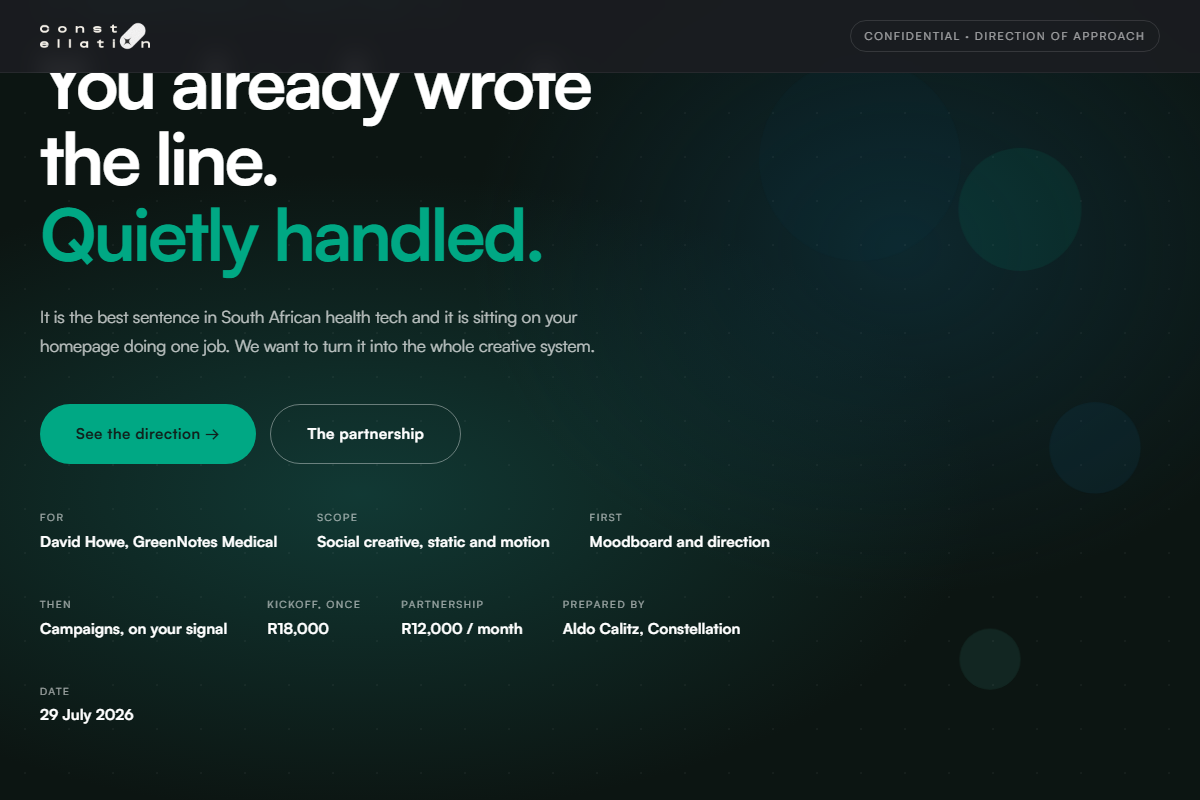
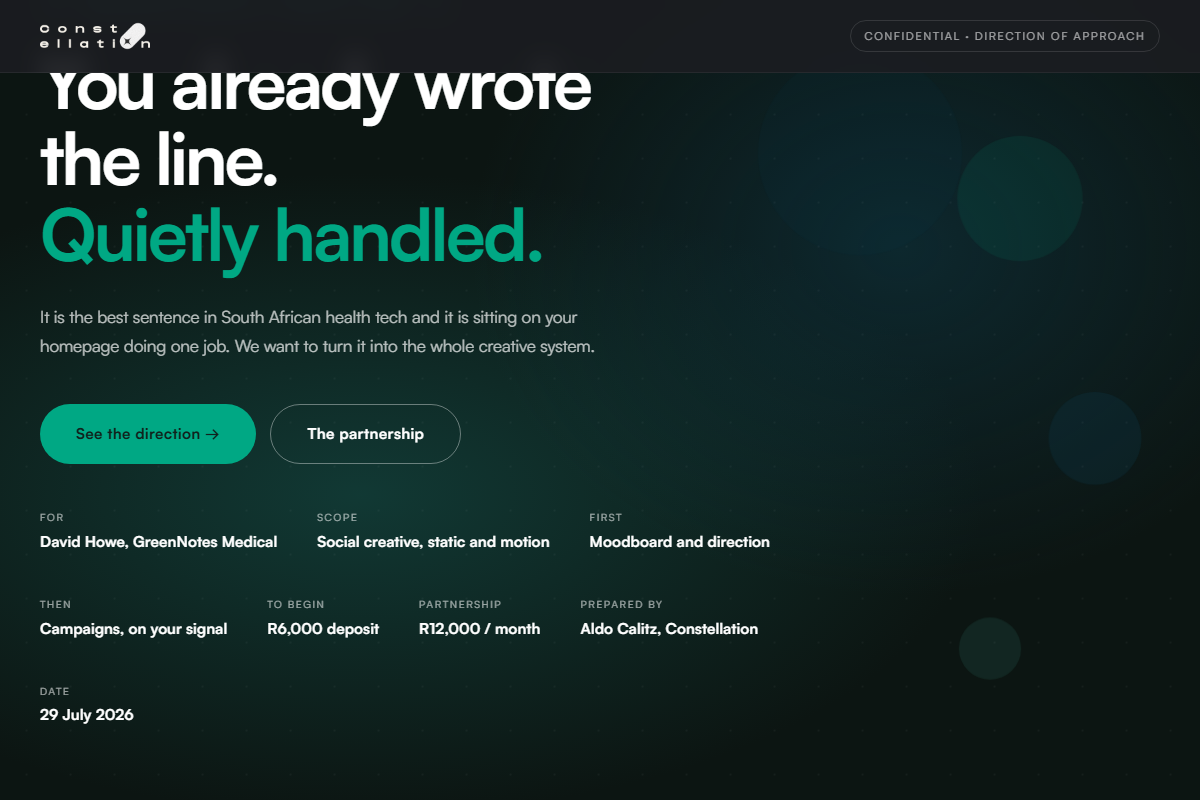
GreenNotes: kickoff becomes a R6,000 deposit, credited on the final invoice
Aldo pushed back that an R18,000 kickoff was too high. Replaced it with a
commencement deposit of half a month, R6,000, held for the engagement and
credited in full against the final invoice. Costs the client nothing extra
over the life of the engagement: half a month up front, half a month at the
end. Their last invoice is R6,000 instead of R12,000.

The direction work that the R18,000 used to buy now happens inside month one
at the ordinary R12,000, with the month's eight assets doubling as the proof
of the direction.

Rewrote both pricing cards so each says what it actually is: card one is the
deposit mechanic, card two carries the month-one direction scope. Retired
"direction sprint" language throughout in favour of "month one" so the
proposal and the signed agreement use the same words.

Added the R850/hour out-of-scope rate to the page.

Verified: 0 stale figures, 0 broken images, 0 console errors, no overflow at
1440/900/390, 0 em dashes, 0 external asset requests, UTF-8 intact.

Changed region(s): [[0.2158, 0.75, 0.6475, 0.8125]]

diff --git a/proposals/greennotes/index.html b/proposals/greennotes/index.html
@@ -477,7 +477,7 @@
         <div class="hero-meta-item"><label>Scope</label><value>Social creative, static and motion</value></div>
         <div class="hero-meta-item"><label>First</label><value>Moodboard and direction</value></div>
         <div class="hero-meta-item"><label>Then</label><value>Campaigns, on your signal</value></div>
-        <div class="hero-meta-item"><label>Kickoff, once</label><value>R18,000</value></div>
+        <div class="hero-meta-item"><label>To begin</label><value>R6,000 deposit</value></div>
         <div class="hero-meta-item"><label>Partnership</label><value>R12,000 / month</value></div>
         <div class="hero-meta-item"><label>Prepared by</label><value>Aldo Calitz, Constellation</value></div>
         <div class="hero-meta-item"><label>Date</label><value>29 July 2026</value></div>
@@ -807,7 +807,7 @@
         <div class="frame"><div class="bar b1 on"></div><div class="bar b2 on"></div><div class="bar b3"></div><span class="fno">03 · Objective</span></div>
         <div class="frame"><div class="bar b1 on"></div><div class="bar b2 on"></div><div class="bar b3 on"></div><span class="fno">04 · Signed</span></div>
       </div>
-      <p class="lead" style="margin-top:1rem; font-size:0.85rem;">Indicative frames only. The real motion gets prototyped in isolation during the direction sprint and shown to you as a moving file before it is ever used in a campaign. We do not sign off animation from a still.</p>
+      <p class="lead" style="margin-top:1rem; font-size:0.85rem;">Indicative frames only. The real motion gets prototyped in isolation in month one and shown to you as a moving file before it is ever used in a campaign. We do not sign off animation from a still.</p>
 
       <div class="sec-note">
         <h4>The rule on generative AI, in writing</h4>
@@ -828,7 +828,7 @@
           <h2>Build the system once.<br /><em>Then it is fast.</em></h2>
         </div>
         <div>
-          <p class="lead">The direction sprint is not a moodboard for its own sake. It ends with a built template system, so that from month two a new post is an hour of art direction rather than a day of design. That is what makes the retainer sustainable at this price, and it is the part most studios leave out.</p>
+          <p class="lead">Month one is not a moodboard for its own sake. It ends with a built template system, so that from month two a new post is an hour of art direction rather than a day of design. That is what makes the retainer sustainable at this price, and it is the part most studios leave out.</p>
         </div>
       </div>
 
@@ -870,7 +870,7 @@
         <div class="timeline-item">
           <div class="timeline-dot">01</div>
           <div class="timeline-body">
-            <div class="weeks">Weeks 1 and 2 · Direction sprint</div>
+            <div class="weeks">Month one · Direction</div>
             <h3>Moodboard, direction, and the proof</h3>
             <p>We send the moodboard and the direction before anything else happens, exactly as you asked. Alongside it: the single brand green resolved from your three, a type and layout system, the caption voice, and six finished assets so you are judging real work rather than a mood.</p>
             <p>The motion signature is prototyped in isolation and sent to you as a moving file. Nothing goes to campaign until you have signed off this stage.</p>
@@ -918,19 +918,18 @@
         <div class="pricing-card">
           <div class="pricing-card-head">
             <div class="pricing-tier-label">Step one</div>
-            <h4>Kickoff, the direction sprint</h4>
-            <div class="price-amount">R18,000</div>
-            <div class="price-total">Once, before anything starts. About two weeks.</div>
+            <h4>To begin</h4>
+            <div class="price-amount">R6,000</div>
+            <div class="price-total">Half a month, up front. Credited back on your final invoice.</div>
           </div>
           <div class="pricing-card-body">
             <ul class="feature-list">
-              <li>Moodboard and written direction</li>
-              <li>Your three greens resolved into one, with contrast proven</li>
-              <li>Type, layout and caption voice system</li>
-              <li>Six finished proof assets</li>
-              <li>Motion signature prototyped and shown moving</li>
-              <li>The template system the retainer runs on</li>
-              <li>Yours to keep, whatever you decide next</li>
+              <li>Half of one month, paid before we start</li>
+              <li>Held for the whole engagement, not spent</li>
+              <li>Credited in full against your final invoice</li>
+              <li>Your last invoice is R6,000, not R12,000</li>
+              <li>Any balance refunded within 15 days</li>
+              <li>Not an extra cost. It is timing, not a fee.</li>
             </ul>
           </div>
         </div>
@@ -945,6 +944,7 @@
           </div>
           <div class="pricing-card-body">
             <ul class="feature-list">
+              <li><strong style="color:var(--white)">Month one is the direction month</strong>, at the same R12,000: moodboard, your three greens resolved into one, the type and caption system, the motion signature shown moving, and the template system every later month is built on</li>
               <li>Four motion pieces a month</li>
               <li>Four static assets a month</li>
               <li>Captions written for every asset</li>
@@ -1017,7 +1017,7 @@
         <p><strong>Read that table honestly and R12,000 sits mid band for a package with video in it.</strong> The difference is the mix. Most retainers at this number give you one motion piece, and it is usually a stock template with your logo dropped into it. Half of what you get here moves, and all of it is made for you. A motion piece is worth roughly three stills in effort, so eight assets built this way is closer to sixteen stills of work, which is what makes the number sit where it does rather than higher.</p>
         <p style="margin-top:1rem;">What you are not buying is community management or paid media. Nobody is replying to your comments or running your ads under this number. We would rather say that plainly than fold it in and do it thinly.</p>
 
-        <p style="margin-top:1rem;"><strong>The kickoff is separate and it is once.</strong> R18,000 before anything starts, covering the moodboard, the direction, your three greens resolved into one, six finished proof assets, the motion signature prototyped and shown moving, and the template system the monthly work is produced on. We have put it at the top of this page as well as here, because a set-up fee that only appears on the invoice is the kind of surprise that sours a good start.</p>
+        <p style="margin-top:1rem;"><strong>To start, R6,000. It is a deposit, not a fee.</strong> Half a month up front, held for the life of the engagement and credited in full against your final invoice. So if we ever stop working together, that last invoice is R6,000 instead of R12,000. You pay half a month at the beginning and half a month at the end, and over the whole engagement it costs you nothing extra. We have put it at the top of this page as well as here, because money that only shows up on an invoice is the kind of surprise that sours a good start.</p>
         <p style="margin-top:1rem;"><strong>If you want more than eight in a month,</strong> we quote it before we make it. Extra assets and anything outside the monthly scope are charged at R850 an hour, always approved by you in writing first, and often quoted as a fixed price instead where that suits the job better.</p>
         <p style="margin-top:1rem;"><strong>What makes this a partnership rather than an invoice.</strong> The rate is held for twelve months while you grow, so scaling from a handful of clinicians to a few hundred does not trigger a repricing conversation. In exchange we ask for three things that cost you nothing: the right to show the work as a case study once it is live, an introduction when a clinician asks who does your creative, and honest feedback fast enough that we can act on it.</p>
       </div>
@@ -1025,7 +1025,7 @@
       <div class="sec-note">
         <h4>All of this is open for discussion</h4>
         <p>None of these numbers are a position we are defending. They are a starting point built from what the work actually takes, put in writing so you have something specific to push against rather than a range.</p>
-        <p>So push against it. If the monthly is more than you want to commit to before you have seen us work, take the direction sprint on its own and decide afterwards, with six finished assets in front of you. If the volume is wrong, we will trade it: fewer assets with more motion, or more static and no motion, at a number that matches. If you would rather start smaller and step up once Billing and Claims has landed, say so and we will write it that way.</p>
+        <p>So push against it. If the monthly is more than you want to commit to before you have seen us work, say so and we will find a shape that works. If the volume is wrong, we will trade it: fewer assets with more motion, or more static and no motion, at a number that matches. If you would rather start smaller and step up once Billing and Claims has landed, say so and we will write it that way.</p>
         <p>The one thing we will not do is quietly thin the work to hit a number. If the budget moves, the scope moves with it and we will tell you exactly what changed.</p>
       </div>
     </div>
@@ -1058,7 +1058,7 @@
       <div class="sec-note">
         <h4>What we need from you, and it is short</h4>
         <p>Confirm rather than answer. One: your last twenty social posts, or page access, so the audit is complete. Two: your real logo files and any brand book that exists, so we resolve your green rather than replace it. Three: a name on your side who can approve a clinical claim inside a day. Four: whether the Billing and Claims launch date is still August.</p>
-        <p>If any of those is a problem, none of it blocks the direction sprint. We start with what we have and flag what is missing in writing rather than working around it silently.</p>
+        <p>If any of those is a problem, none of it blocks the start. We start with what we have and flag what is missing in writing rather than working around it silently.</p>
       </div>
     </div>
   </section>
@@ -1077,7 +1077,7 @@
       <p>Four steps from this document to a feed that looks like the product it is selling.</p>
       <div class="steps-list">
         <div class="step-item"><div class="step-num">01</div><p>A short call. Thirty minutes, so we can hear you say what GreenNotes is for in your own words. That recording becomes the voice.</p></div>
-        <div class="step-item"><div class="step-num">02</div><p>Direction sprint starts. Two weeks. The moodboard reaches you in the first week, not at the end.</p></div>
+        <div class="step-item"><div class="step-num">02</div><p>Month one starts. The moodboard reaches you in the first week, not at the end.</p></div>
         <div class="step-item"><div class="step-num">03</div><p>You sign off the direction. Six finished assets and a moving motion prototype in front of you before a single campaign is planned.</p></div>
         <div class="step-item"><div class="step-num">04</div><p>The partnership begins. Eight assets a month, four of them moving, built on the system, with the Billing and Claims launch as the first real moment.</p></div>
       </div>
